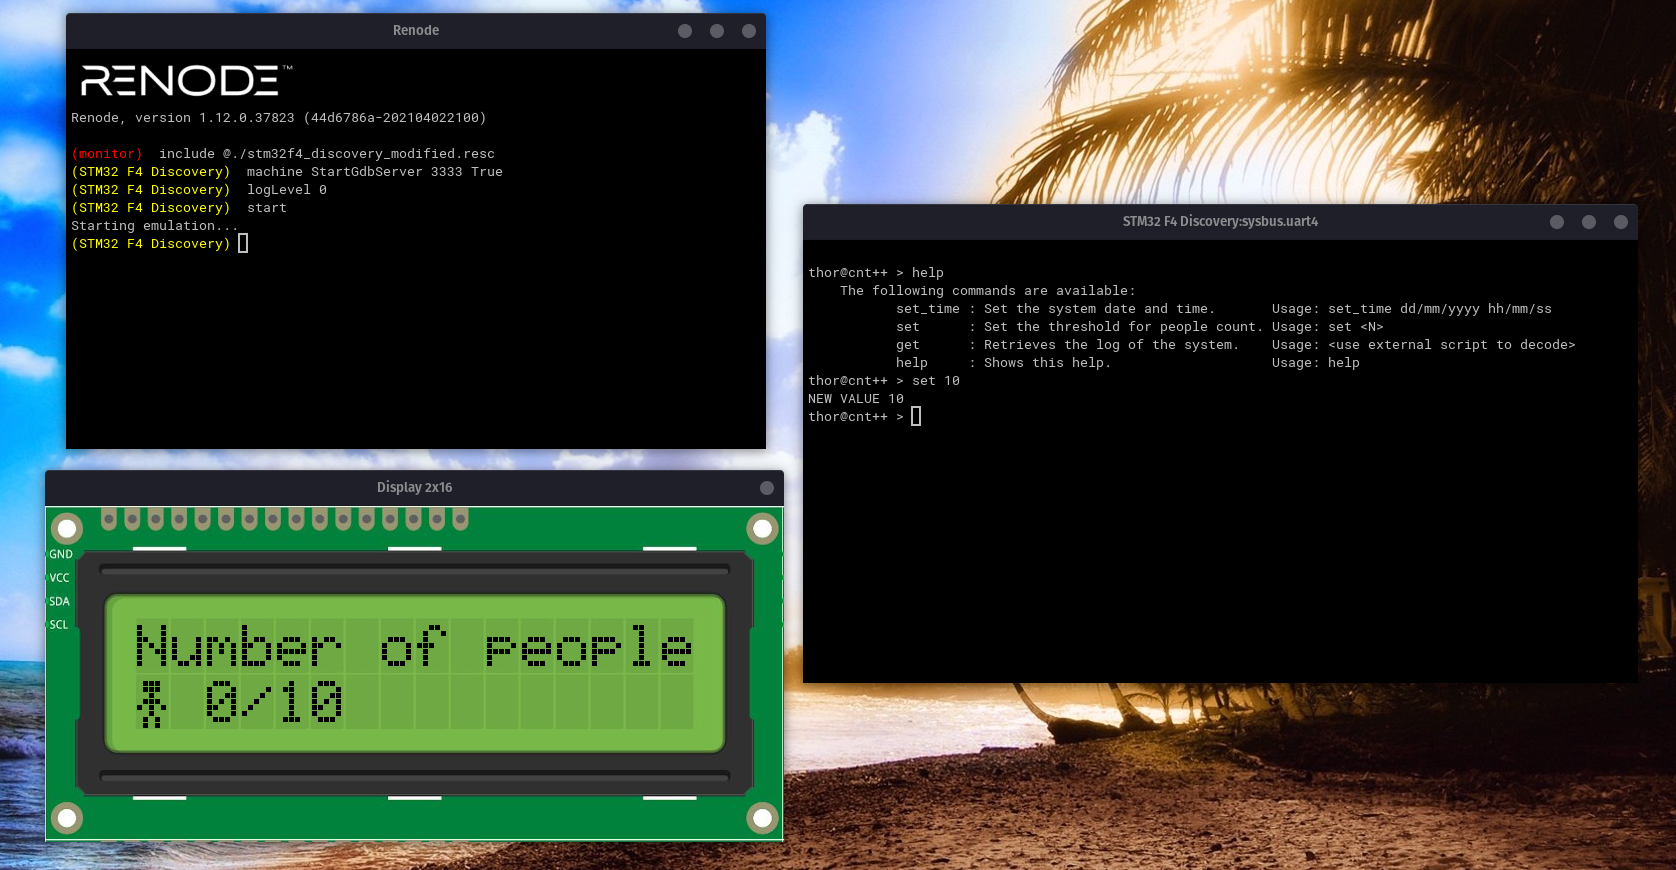
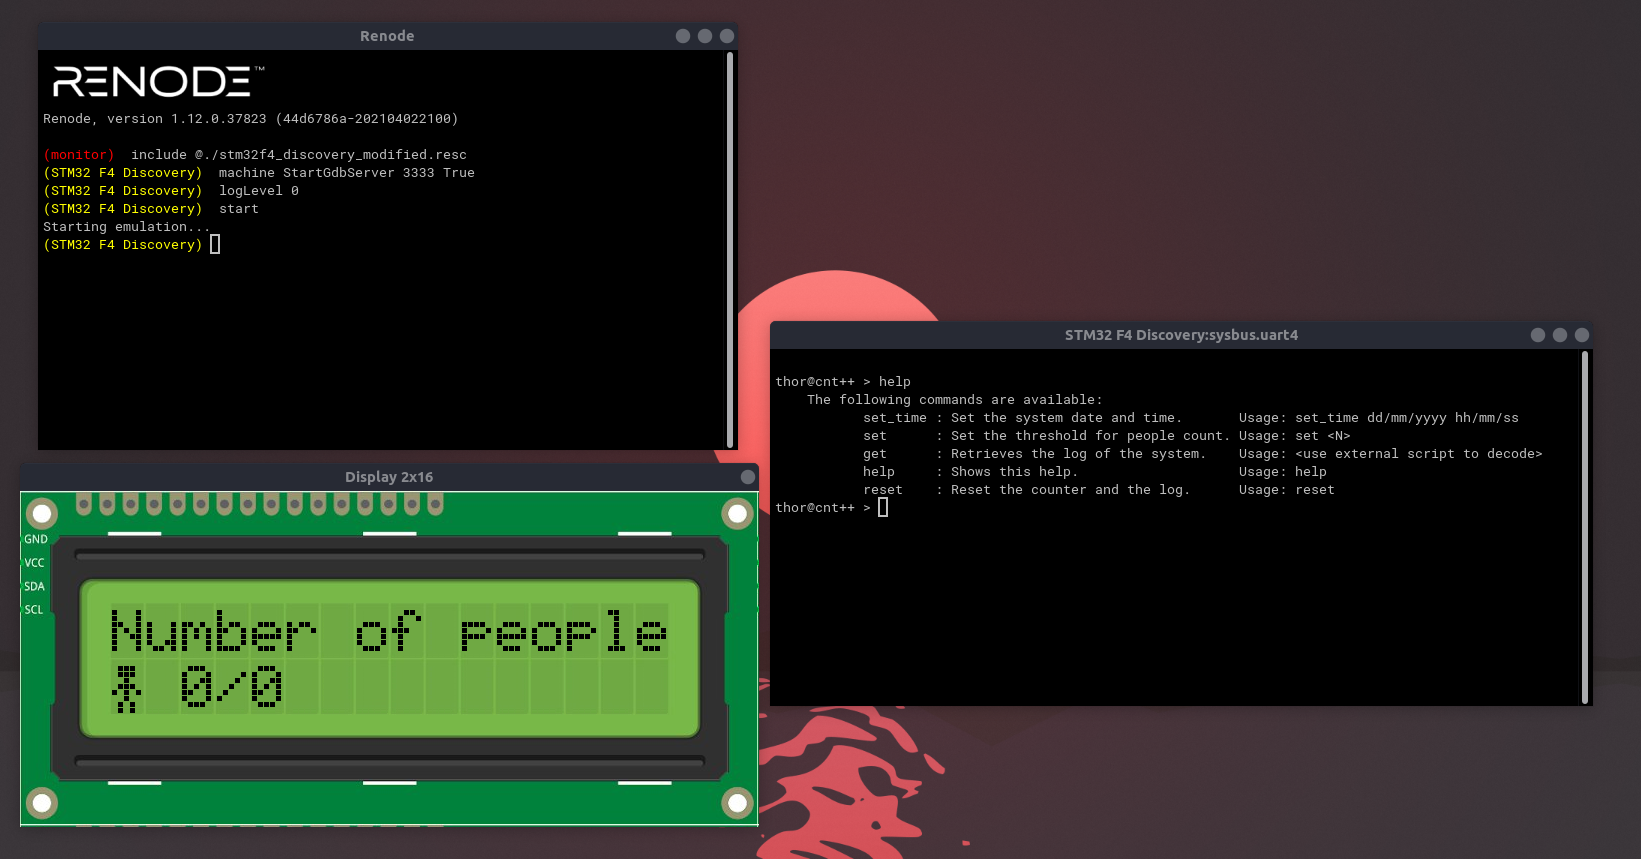
Added support for reset command and added counter management

diff --git a/src/main.c b/src/main.c
@@ -26,6 +26,7 @@ static void enable_IRQ();
 ONNEW_SYSDTTIME_CB(onNewSysDateTime, newTime);
 ONNEW_VALUE_SET_CB(onNewValueSet, newMax);
 ONUART_DOWNLOAD_CB(onUartDownload, xferDone);
+ONNEW_RESET_CB(onReset, flash);
 
 
 static int number_people;
@@ -59,6 +60,7 @@ int main(void) {
     hcomm.Callback.newValueSet = onNewValueSet;
     hcomm.Callback.onNewSysDateTime = onNewSysDateTime;
     hcomm.Callback.onUARTDownload = onUartDownload;
+    hcomm.Callback.onReset = onReset;
 
     COMM_Init(&hcomm);
     COMM_StartListen();
@@ -131,6 +133,19 @@ ONUART_DOWNLOAD_CB(onUartDownload, xferDone) {
         disable_IRQ();
         lcd_set_text_downloading();
     }
+}
+
+ONNEW_RESET_CB(onReset, flash) {
+    // Reset flash memory
+    if(flash){
+        flashEraseSector(11);
+        hcomm.SrcMemory.size = 0x0;
+    }
+
+    // Reset counter and update interterface
+    number_people = 0;
+    number_people_max = 0;
+    update_interface();
 }
 
 static void MX_I2C1_Init(void) {
@@ -214,7 +229,7 @@ void HAL_GPIO_EXTI_Callback(uint16_t GPIO_Pin) {
     switch (GPIO_Pin) {
         case IR_1_PIN:
             // Manage counter, increase
-            if(setup_phase > 1 && number_people < number_people_max)
+            if(setup_phase > 1)
                 log_update_number(&hrtc, &gTime, &gDate, ++number_people, &hcomm);
         break;
         case IR_2_PIN:

diff --git a/src/comm.c b/src/comm.c
@@ -13,7 +13,8 @@
            set_time : Set the system date and time.       Usage: set_time dd/mm/yyyy hh/mm/ss\r\n\
            set      : Set the threshold for people count. Usage: set <N>\r\n\
            get      : Retrieves the log of the system.    Usage: <use external script to decode>\r\n\
-           help     : Shows this help.                    Usage: help\r\n"
+           help     : Shows this help.                    Usage: help\r\n\
+           reset    : Reset the counter and the log.      Usage: reset\r\n"
 
 
 static struct COMM_Handle *phcomm;
@@ -123,7 +124,12 @@ static void rxCpltCback(UART_HandleTypeDef *huart) {
             strcpy((char *)buf, STR_HELP);
             len = sizeof(STR_HELP) - 3;
             buf_cnt = 0;
-        } else if (buf_cnt) {
+        } else if (!strncmp((char *)buf, "reset", 0x5)) {
+            INVOKE_CB(phcomm->Callback.onReset, true);
+            strcpy((char *)buf, "\r\nRESET DONE!\r\n");
+            len = 12;
+            buf_cnt = 0;
+        }  else if (buf_cnt) {
             strcpy((char *)buf, STR_NOTFOUND);
             len = sizeof(STR_NOTFOUND) - 3;
             buf_cnt = 0;

diff --git a/include/comm.h b/include/comm.h
@@ -9,6 +9,7 @@
 #define ONNEW_VALUE_SET_CB(__fnc__name__, __arg__name__)   void (__fnc__name__)(uint32_t __arg__name__)
 #define ONUART_DOWNLOAD_CB(__fnc__name__, __arg__name__)   void (__fnc__name__)(bool __arg__name__)
 #define ONNEW_SYSDTTIME_CB(__fnc__name__, __arg__name__)   void (__fnc__name__)(const char *__arg__name__)
+#define ONNEW_RESET_CB(__fnc__name__, __arg__name__)   void (__fnc__name__)(bool __arg__name__)
 
 struct COMM_Handle {
 
@@ -34,6 +35,9 @@ struct COMM_Handle {
         @param newDateTime: string with the new date time to be set.
         Format: dd/mm/yyyy hh/mm/ss */
         ONNEW_SYSDTTIME_CB(*onNewSysDateTime, newDateTime);
+
+        /* Callback invoked when a RESET command is requested via UART. */
+        ONNEW_RESET_CB(*onReset, flash);
     } Callback;
 
 };

diff --git a/src/log.c b/src/log.c
@@ -78,6 +78,7 @@ void flashEraseSector(uint8_t sector_num) {
     // Erase the required Flash sector
     FLASH_Erase_Sector(sector_num, FLASH_VOLTAGE_RANGE_3);
     HAL_FLASH_Lock();
+    i = 0;
 }
 
 // 2. Set Sector Adress

diff --git a/README.md b/README.md
@@ -208,7 +208,8 @@ main module, finally, puts together them and creates the real interaction betwee
 
 - `newValueSet`: launched when the operator set a new value, only if it's a valid value (<= 65535). The new value is passed as function argument to the callback.
 - `onUARTDownload`: it's executed both when a download operation begins and ends (it can be distinguished thanks to the function's boolean argument). In the final implementation, it's used to set the LCD screen with the sentence "Downloading..".
-- `texttt{onNewSysDateTime`: launched when the operator set a new date and time for the system, only if it has a valid format dd/mm/yyyy hh/mm/ss. In the final implementation, it's used to set up the RTC peripheral's time.
+- `onNewSysDateTime`: launched when the operator set a new date and time for the system, only if it has a valid format dd/mm/yyyy hh/mm/ss. In the final implementation, it's used to set up the RTC peripheral's time.
+- `onReset`: launched when the operator wants to reset both the log file, the current counter and the max number of allowed people. This command has no parameters and it does not reset the RTC.
 
 Finally, the important thing to underline is that the log are stored in the flash memory in a raw format (4 bytes timestamp + 2 bytes count) so a simple get command gives as output an unreadable string. In order to read and understand it, an external python script has been developed that sends via UART the command get and decodes the output given by the system.
 
